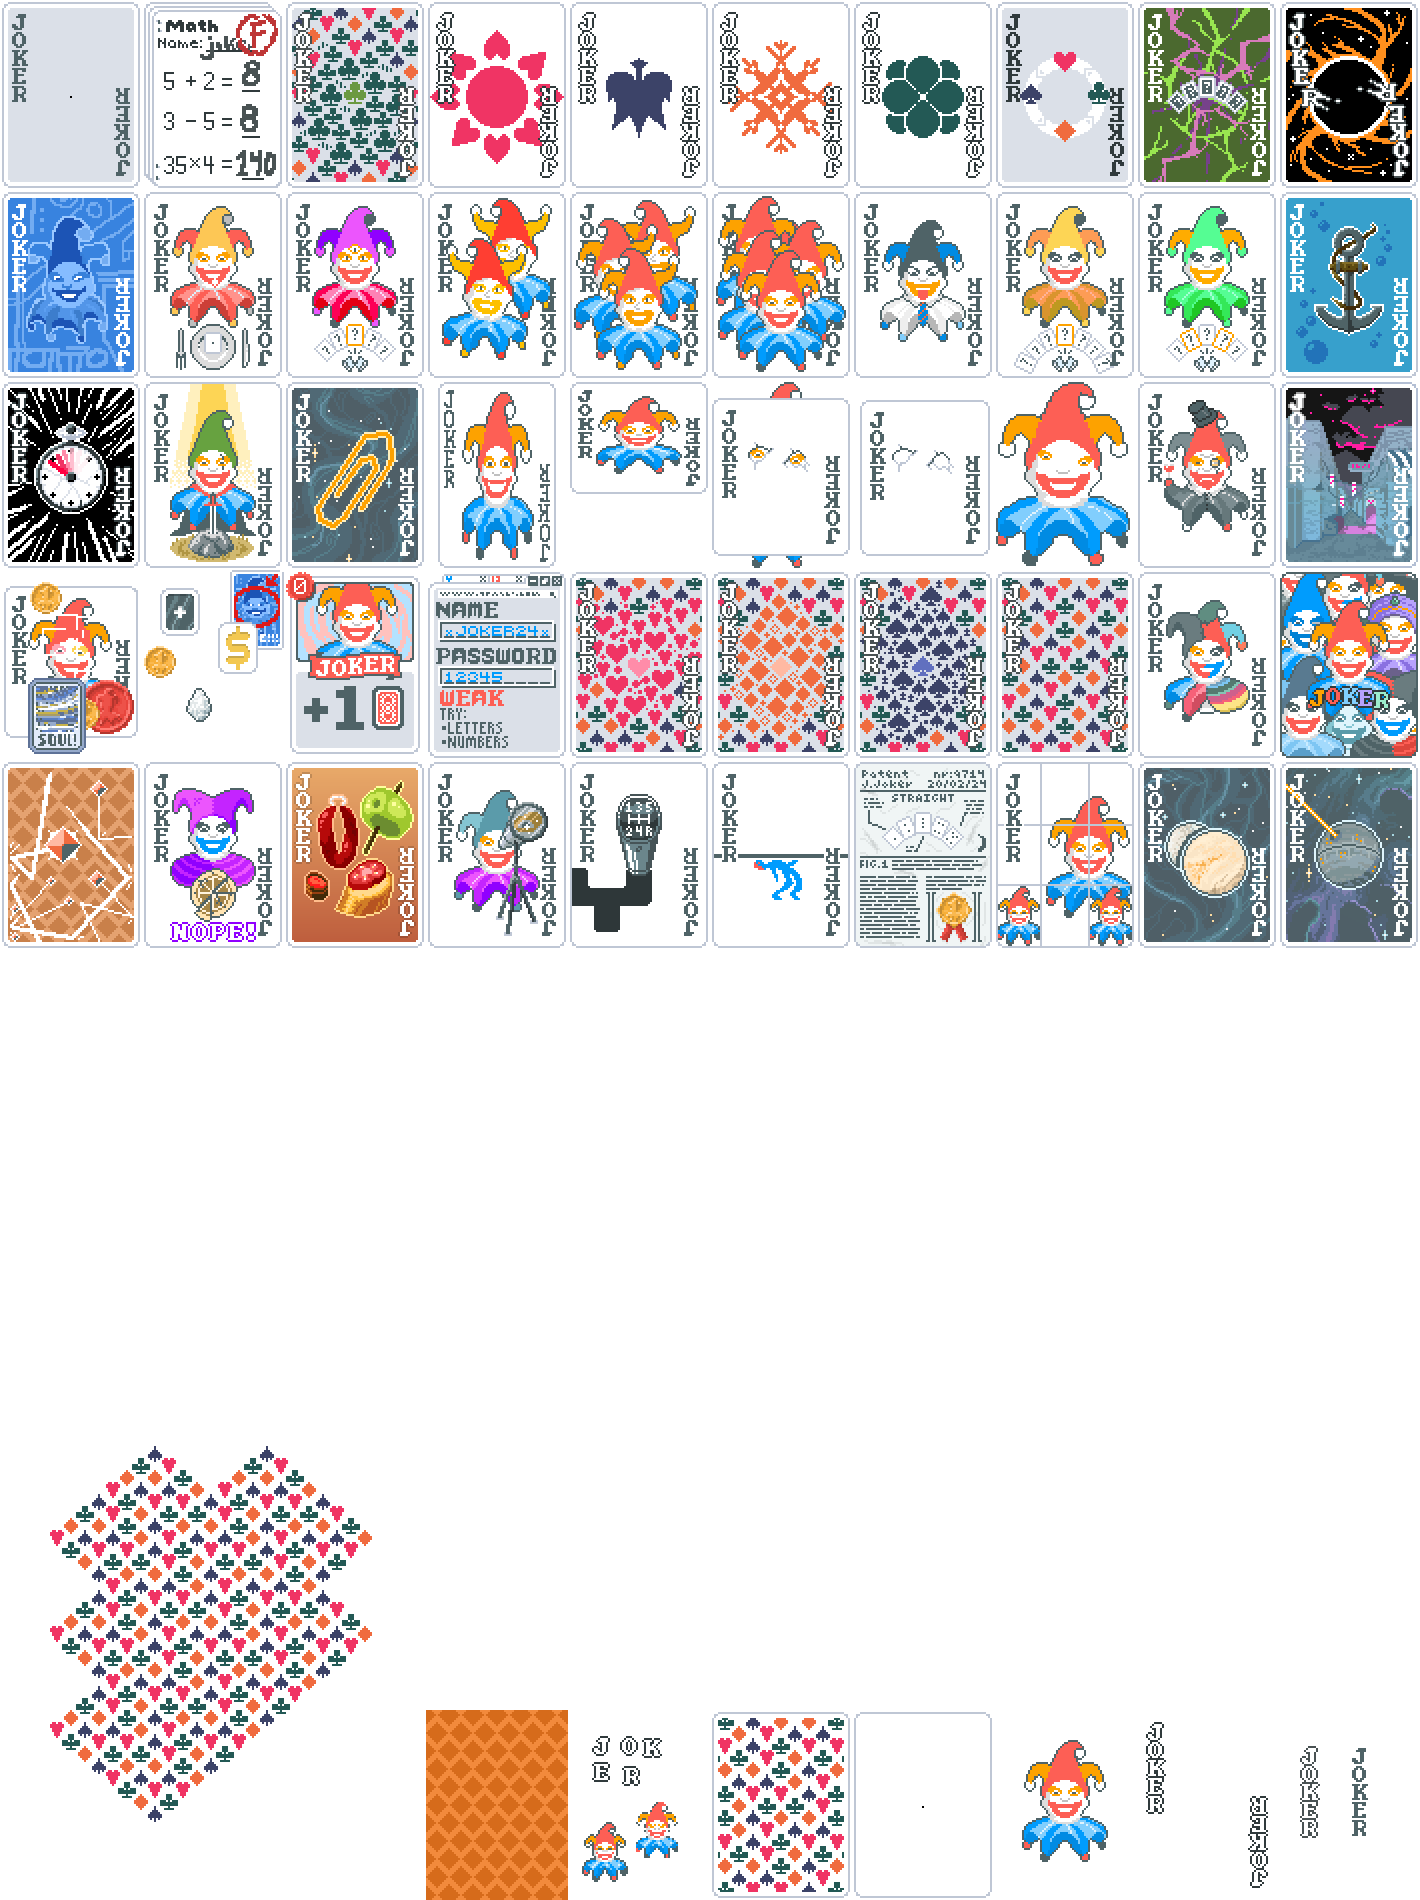
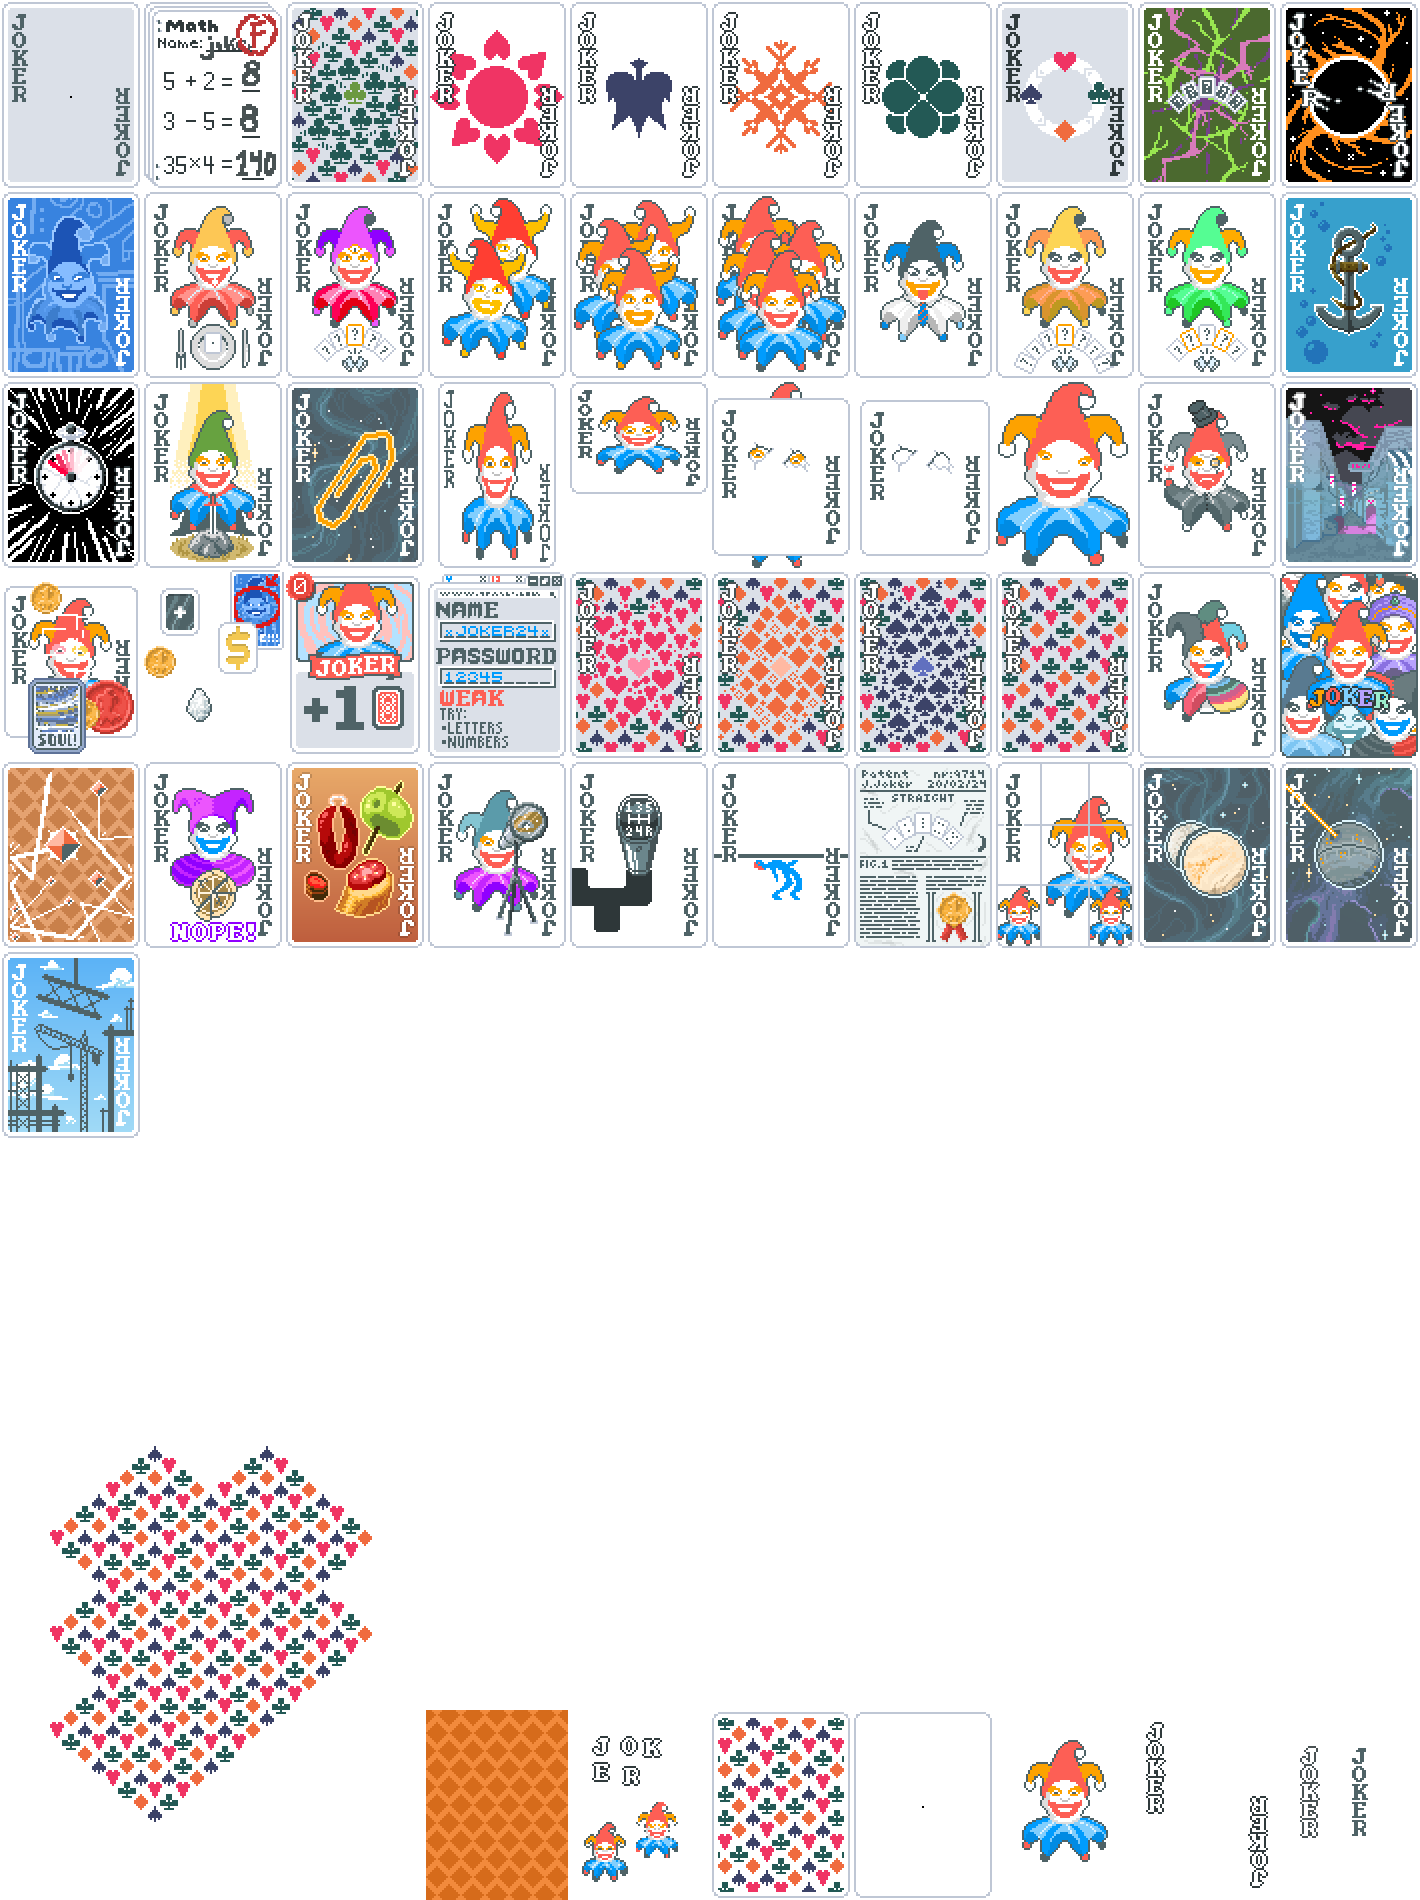
Add Infrastructure

Changed region(s): [[0.0, 0.4968, 0.093, 0.6211]]

diff --git a/web/addjokers.js b/web/addjokers.js
@@ -423,6 +423,14 @@ let jokers = [
     image_url: "img/j/death_star.png",
     rarity: "Rare"
   },
+  {
+    name: "Infrastructure",
+    text: [
+      "When {C:attention}Blind{} is selected, randomly {C:enhanced}Enhance{} {C:attention}1{} card in deck",
+    ],
+    image_url: "img/j/infrastructure.png",
+    rarity: "Common"
+  },
 
   // {
   //   name: "",
